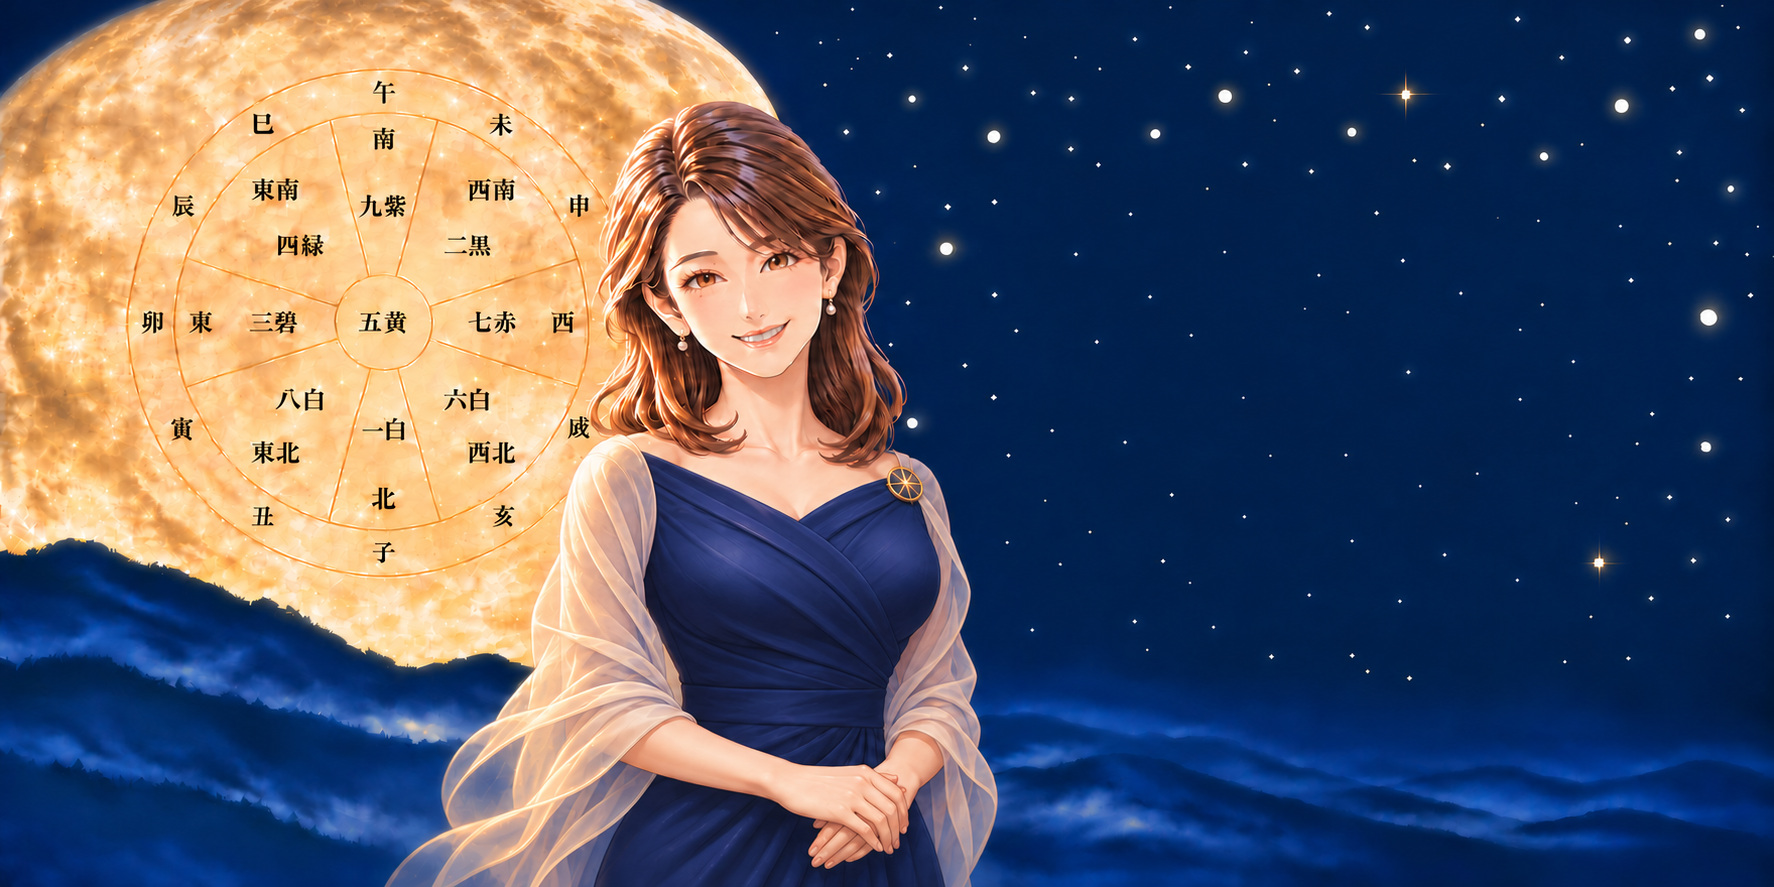
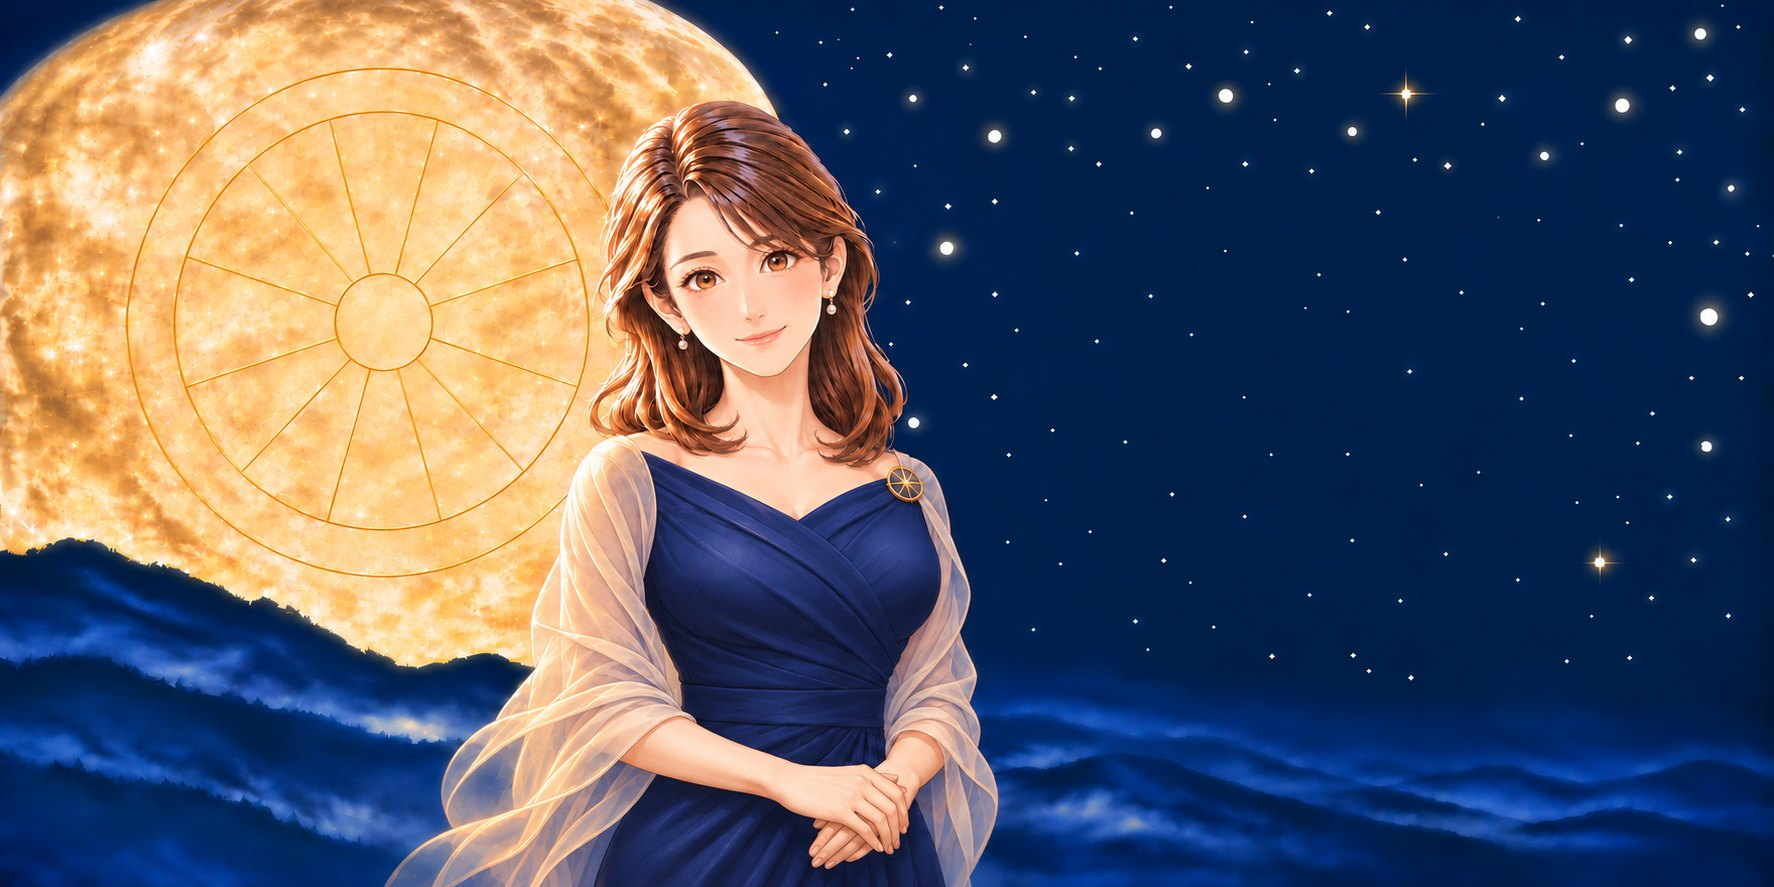
トップ画像のナビ子をやわらかい表情の新しい絵に差し替え
Claude-Session: https://claude.ai/code/session_01WnJ4nNfDWH1XpE6rkfFMSB

diff --git a/sw.js b/sw.js
@@ -1,5 +1,5 @@
 /* ホーム画面アプリ用。ページや文字は新しいものを優先(つながらない時だけ保存分)、画像は一度見たものを保存してすばやく出す */
-const VER = "kippoui-v1";
+const VER = "kippoui-v2";
 self.addEventListener("install", e => { e.waitUntil(caches.open(VER).then(c => c.addAll(["./"])).then(() => self.skipWaiting())); });
 self.addEventListener("activate", e => { e.waitUntil(caches.keys().then(ks => Promise.all(ks.filter(k => k.startsWith("kippoui-") && !k.startsWith(VER)).map(k => caches.delete(k)))).then(() => self.clients.claim())); });
 self.addEventListener("fetch", e => {
